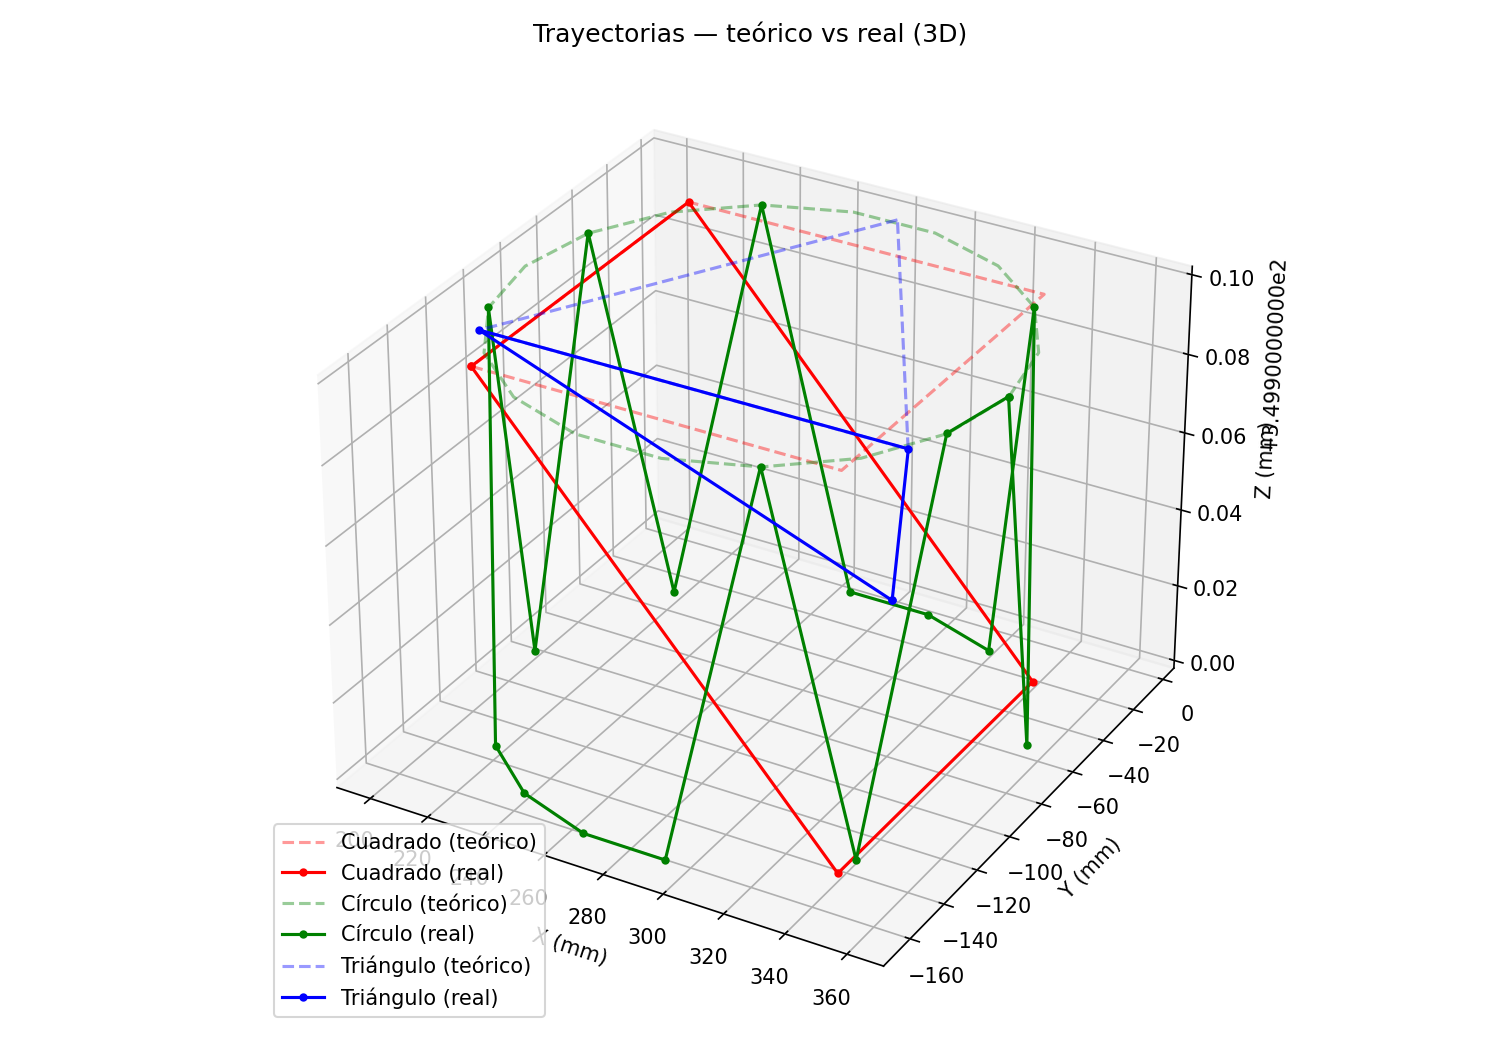
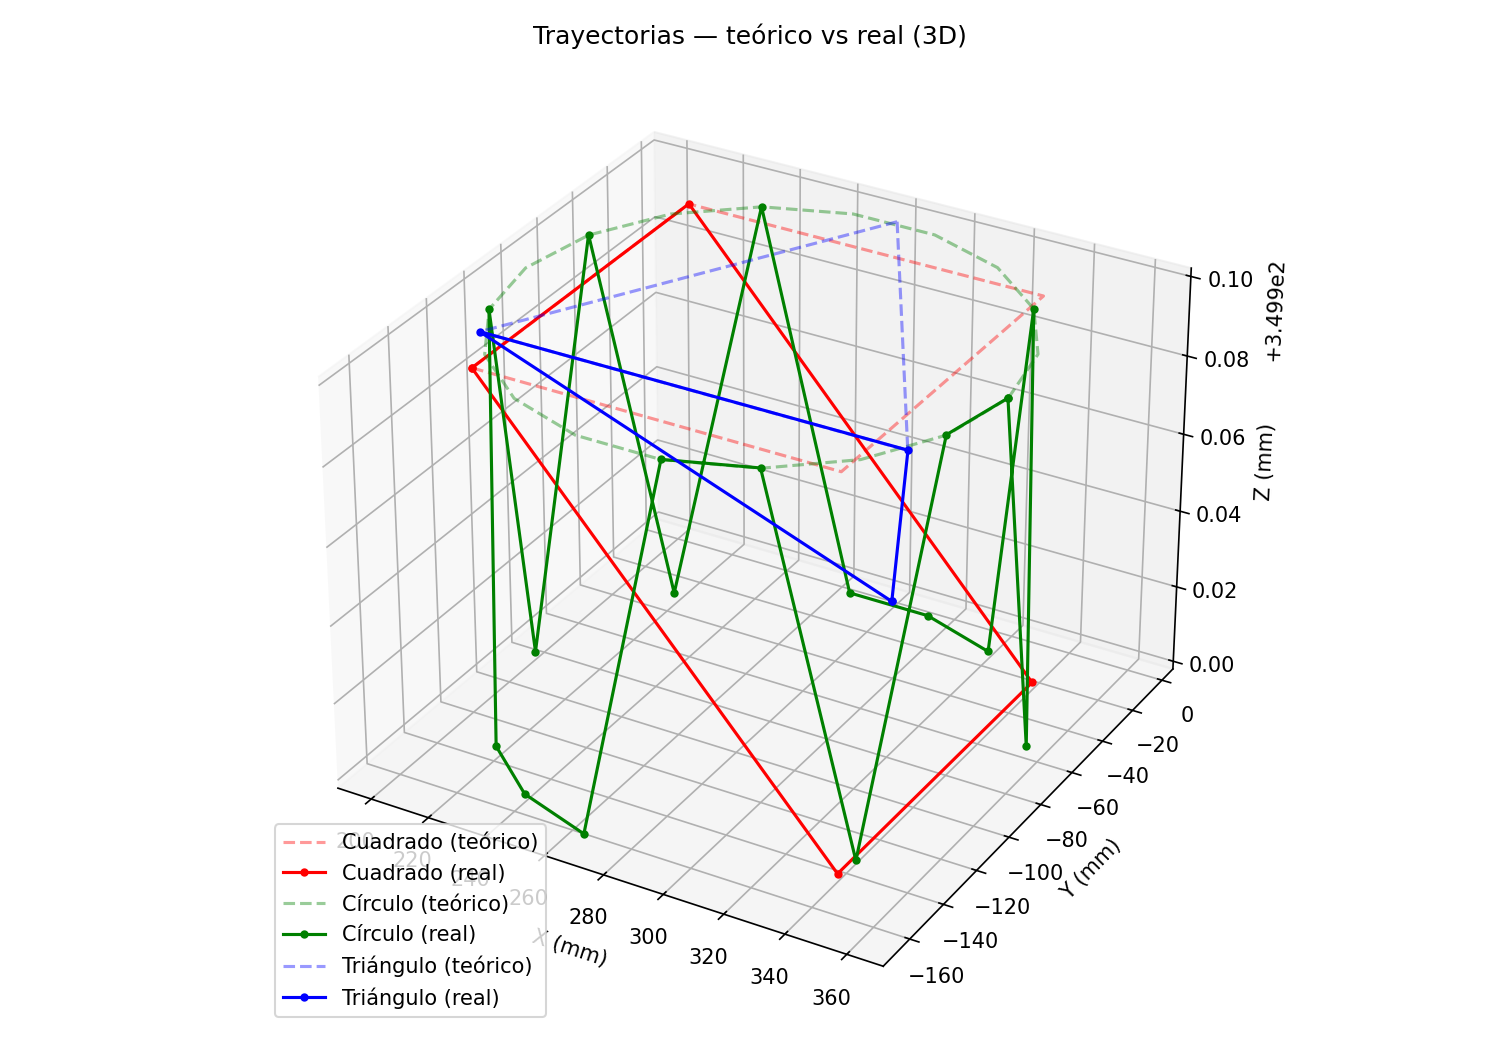
Testeando ejemplos myCobot Pro 450

diff --git a/README.md b/README.md
@@ -1,6 +1,6 @@
-# Brazo Robot Demos
+# myCobot Pro 450 Demos
 
-Scripts Python de demostración para el Brazo Robot myCobot Pro 450. Diseñados para ejecutarse directamente desde tu laptop conectada al robot del laboratorio remoto.
+Scripts Python de demostración para el brazo robot myCobot Pro 450. Diseñados para ejecutarse directamente desde tu laptop conectada al robot del laboratorio remoto.
 
 Todos los scripts están en:
 
@@ -10,9 +10,11 @@ python/
 
 Son archivos Python simples — ábrelos, léelos y modifícalos libremente. Cada uno es independiente y está pensado para que lo experimentes.
 
+<img src="img/my_cobot_pro_450.png" alt="myCobot Pro 450" width="400"/>
+
 ---
 
-## Prerrequisitos
+## Prerequisitos
 
 - Python 3.8 o superior instalado en tu laptop
 - Conectado al laboratorio remoto (Husarnet activo, acceso al robot)
@@ -46,8 +48,6 @@ python3 geometrias_3d.py
 
 ## Demos disponibles
 
----
-
 ### Movimiento y trayectorias
 
 ```bash
@@ -56,13 +56,15 @@ cd ~/brazo-robot-demos/python/1\ Movimiento\ y\ trayectorias
 
 ---
 
-### `geometrias_3d` — Traza cuadrado, círculo y triángulo en el espacio
+### `geometrias_3d` — Traza un cuadrado, un círculo y un triángulo en el espacio
 
-**Qué hace:** El robot recorre tres figuras geométricas en un plano cartesiano fijo: un cuadrado, un círculo (interpolado con N puntos) y un triángulo equilátero. Al terminar genera un gráfico matplotlib comparando la trayectoria teórica con la posición real registrada con `get_coords()`.
+Para este demo se recomienda que el área de trabajo esté despejada. Puedes ajustar las dimensiones de cada figura y el plano de trabajo con los parámetros al inicio del script.
 
 ```bash
 python3 geometrias_3d.py
 ```
+
+**Qué hace:** El robot recorre tres figuras geométricas en un plano cartesiano fijo: un cuadrado, un círculo (interpolado con N puntos) y un triángulo equilátero. Al terminar genera un gráfico matplotlib comparando la trayectoria teórica con la posición real registrada con `get_coords()`.
 
 **Qué usa:**
 - `send_coords(pose, speed)` — mueve el extremo a coordenadas cartesianas
@@ -77,11 +79,11 @@ python3 geometrias_3d.py
 
 ### `escritura_K` — Escribe la letra K con el extremo del brazo
 
-**Qué hace:** El robot traza la letra K en un plano cartesiano fijo simulando un bolígrafo: baja hasta la altura de dibujo, recorre cada trazo, y levanta el extremo entre trazos. Al finalizar muestra un gráfico de la trayectoria teórica.
-
 ```bash
 python3 escritura_K.py
 ```
+
+**Qué hace:** El robot traza la letra K en un plano cartesiano fijo simulando un bolígrafo: baja hasta la altura de dibujo, recorre cada trazo y levanta el extremo entre trazos. Al finalizar muestra un gráfico de la trayectoria teórica.
 
 **Qué usa:**
 - `send_coords(pose, speed)` — mueve el extremo a lo largo de cada trazo
@@ -94,36 +96,13 @@ python3 escritura_K.py
 
 ---
 
-### `dibujo_svg` — Dibuja un SVG en el plano
-
-**Qué hace:** Carga un archivo SVG, extrae sus trazos, los escala y centra en el área de trabajo del robot, y los ejecuta como movimientos reales (pluma arriba/abajo según si el trazo es continuo o hay salto). Con `--preview` genera solo la imagen sin mover el robot.
-
-```bash
-python3 dibujo_svg.py --preview
-python3 dibujo_svg.py
-```
-
-> Este demo tiene pasos extra de verificación antes de mover el robot. Consulta [README_testeo.md](README_testeo.md) para el flujo completo.
-
-**Qué usa:**
-- `send_coords(pose, speed)` — mueve el extremo a cada punto del trazo
-- `set_fresh_mode(True/False)` — envío en ráfaga sin esperar entre puntos intermedios
-- `gripper_close()` / `gripper_open()` — baja y sube la pluma entre trazos
-- `go_home()` — regresa al finalizar
-
-**Parámetros** (al inicio del script): `ANCHO_DIBUJO`, `ALTO_DIBUJO` (área máxima en mm) · `ORIGEN_X`, `ORIGEN_Y`, `PLANO_Z`, `Z_LEVANTE` (plano de trabajo) · `RESOLUCION` (muestreo de trazos) · `SPEED`, `SPEED_DRAW`
-
-**Código:** [python/1 Movimiento y trayectorias/dibujo_svg.py](python/1%20Movimiento%20y%20trayectorias/dibujo_svg.py)
-
----
-
 ### `reach_envelope` — Genera la nube de puntos del workspace real
-
-**Qué hace:** Barre sistemáticamente los rangos de J1 y J2 con J3–J6 fijos, registra la posición cartesiana real en cada pose con `get_coords()`, exporta los datos a un CSV y genera un gráfico 3D del espacio de trabajo alcanzable.
 
 ```bash
 python3 reach_envelope.py
 ```
+
+**Qué hace:** Barre sistemáticamente los rangos de J1 y J2 con J3–J6 fijos, registra la posición cartesiana real en cada pose con `get_coords()`, exporta los datos a un CSV y genera un gráfico 3D del espacio de trabajo alcanzable.
 
 **Qué usa:**
 - `send_angles(angles, speed)` — mueve el brazo a cada combinación de ángulos
@@ -148,11 +127,11 @@ cd ~/brazo-robot-demos/python/2\ Pick\ \&\ Place
 
 ### `pick_place_basico` — Recoge un objeto de A y lo deposita en B
 
-**Qué hace:** Secuencia básica de pick & place: se aproxima a la posición A, agarra el objeto verificando el estado del gripper, lo transporta a B y lo deposita. Si el gripper no reporta objeto agarrado, reintenta hasta `MAX_REINTENTOS` veces antes de abortar.
-
 ```bash
 python3 pick_place_basico.py
 ```
+
+**Qué hace:** Secuencia básica de pick & place: se aproxima a la posición A, agarra el objeto verificando el estado del gripper, lo transporta a B y lo deposita. Si el gripper no reporta objeto agarrado, reintenta hasta `MAX_REINTENTOS` veces antes de abortar.
 
 **Qué usa:**
 - `send_angles(pose, speed)` — mueve a las poses definidas por ángulos articulares
@@ -168,11 +147,11 @@ python3 pick_place_basico.py
 
 ### `apilado` — Apila y desapila bloques por capas
 
-**Qué hace:** Demostración de apilado en tres fases: (1) toma los bloques de la posición A capa por capa y los apila en B, (2) pausa en home, (3) deshace la pila de B y reconstruye A. Cada capa tiene su propia pose de pick y place con el Z correspondiente.
-
 ```bash
 python3 apilado.py
 ```
+
+**Qué hace:** Demostración de apilado en tres fases: (1) toma los bloques de la posición A capa por capa y los apila en B, (2) pausa en home, (3) deshace la pila de B y reconstruye A. Cada capa tiene su propia pose de pick y place con el Z correspondiente.
 
 **Qué usa:**
 - `send_angles(pose, speed)` — navega a cada pose de aproximación, pick y place
@@ -187,11 +166,11 @@ python3 apilado.py
 
 ### `distribucion_1_a_N` — Distribuye piezas a N destinos en abanico
 
-**Qué hace:** Simula una línea de producción: recoge del mismo punto de origen y distribuye en secuencia a N zonas de destino dispuestas en abanico (solo varía J1 entre destinos, J2–J6 son comunes). Repite el ciclo `N_CICLOS` veces.
-
 ```bash
 python3 distribucion_1_a_N.py
 ```
+
+**Qué hace:** Simula una línea de producción: recoge del mismo punto de origen y distribuye en secuencia a N zonas de destino dispuestas en abanico (solo varía J1 entre destinos, J2–J6 son comunes). Repite el ciclo `N_CICLOS` veces.
 
 **Qué usa:**
 - `send_angles(pose, speed)` — mueve a origen y a cada destino del abanico
@@ -212,50 +191,13 @@ cd ~/brazo-robot-demos/python/3\ Programación\ y\ control
 
 ---
 
-### `waypoints_json` — Ejecuta una secuencia de poses desde un archivo JSON
-
-**Qué hace:** Lector genérico de secuencias: carga un JSON con lista de poses (angulares o cartesianas), cada una con su etiqueta, velocidad y tipo de movimiento, y las ejecuta en orden con una pausa configurable entre cada una. Útil para prototipar rutas sin tocar código.
-
-**Con el archivo por defecto:**
-
-```bash
-python3 waypoints_json.py
-```
-
-**Con un archivo propio:**
-
-```bash
-python3 waypoints_json.py mi_secuencia.json
-```
-
-**Formato del JSON:**
-
-```json
-[
-  {"flag": 0, "pose": [J1, J2, J3, J4, J5, J6], "speed": 10, "label": "home"},
-  {"flag": 1, "pose": [X, Y, Z, RX, RY, RZ],    "speed": 20, "label": "punto_1"}
-]
-```
-
-> `flag: 0` usa `send_angles`, `flag: 1` usa `send_coords`.
-
-**Qué usa:**
-- `send_angles(pose, speed)` — para poses con `flag: 0`
-- `send_coords(pose, speed)` — para poses con `flag: 1`
-
-**Parámetros** (al inicio del script): `ARCHIVO_DEFAULT` (JSON por defecto) · `PAUSA_ENTRE_POSES` (segundos de espera entre poses)
-
-**Código:** [python/3 Programación y control/waypoints_json.py](python/3%20Programaci%C3%B3n%20y%20control/waypoints_json.py)
-
----
-
 ### `pid_posicion` — Control proporcional de posición en J1
-
-**Qué hace:** Lazo de control P sobre la articulación J1: lee el ángulo actual, calcula el error respecto al setpoint, envía un comando proporcional al error y repite hasta converger dentro de la tolerancia o agotar el timeout. Muestra en tiempo real el estado del lazo en una tabla por terminal.
 
 ```bash
 python3 pid_posicion.py
 ```
+
+**Qué hace:** Lazo de control P sobre la articulación J1: lee el ángulo actual, calcula el error respecto al setpoint, envía un comando proporcional al error y repite hasta converger dentro de la tolerancia o agotar el timeout. Muestra en tiempo real el estado del lazo en una tabla por terminal.
 
 **Qué usa:**
 - `get_angle(1)` — lee el ángulo actual de J1
@@ -278,11 +220,11 @@ cd ~/brazo-robot-demos/python/4\ Aplicaciones\ temáticas
 
 ### `barman` — Secuencia coreográfica de agarre y servido
 
-**Qué hace:** El robot actúa como bartender: recoge un vaso, lo transporta a la posición de servido, inclina el extremo el ángulo configurado para simular el vertido, devuelve el vaso a su lugar y regresa a reposo. Es una demo de secuenciación coreográfica con verificación de agarre.
-
 ```bash
 python3 barman.py
 ```
+
+**Qué hace:** El robot actúa como bartender: recoge un vaso, lo transporta a la posición de servido, inclina el extremo el ángulo configurado para simular el vertido, devuelve el vaso a su lugar y regresa a reposo. Es una demo de secuenciación coreográfica con verificación de agarre.
 
 **Qué usa:**
 - `send_angles(pose, speed)` — navega a cada pose de la secuencia
@@ -296,39 +238,17 @@ python3 barman.py
 
 ---
 
-### `contador_objetos` — Recoge y cuenta objetos de una bandeja
-
-**Qué hace:** El robot recoge objetos de una bandeja uno a uno, verifica con el gripper si hay objeto agarrado (estado `2`), los deposita en la zona de descarga y lleva un conteo acumulado que muestra cada `INTERVALO_DISPLAY` segundos. Se detiene al alcanzar `N_MAX_OBJETOS` o cuando la bandeja lleva `MAX_INTENTOS_VACIADA` intentos fallidos consecutivos.
-
-```bash
-python3 contador_objetos.py
-```
-
-> Este demo requiere objetos físicos en la bandeja. Consulta [README_testeo.md](README_testeo.md) para el flujo completo.
-
-**Qué usa:**
-- `send_angles(pose, speed)` — mueve a bandeja y zona de descarga
-- `gripper_close()` / `gripper_open()` — intento de agarre
-- `get_gripper_status()` — confirma objeto agarrado (estado `2`) o bandeja vacía
-- `go_home()` — regresa al finalizar
-
-**Parámetros** (al inicio del script): `POSE_BANDEJA_APPROACH`, `POSE_BANDEJA` · `POSE_DESCARGA_APPROACH`, `POSES_DESCARGA` · `N_MAX_OBJETOS` (límite de objetos) · `MAX_INTENTOS_VACIADA` (intentos fallidos antes de detener) · `INTERVALO_DISPLAY` · `SPEED`, `SPEED_PICK`, `ESPERA_GRIPPER`
-
-**Código:** [python/4 Aplicaciones temáticas/contador_objetos.py](python/4%20Aplicaciones%20tem%C3%A1ticas/contador_objetos.py)
-
----
-
 ## Resumen de métodos API usados
 
 | Método | Descripción | Usado por |
 |---|---|---|
-| `send_coords(pose, speed)` | Mueve el extremo a coordenadas cartesianas `[X, Y, Z, RX, RY, RZ]` | geometrias_3d, escritura_K, dibujo_svg, waypoints_json |
-| `send_angles(angles, speed)` | Mueve el brazo a ángulos articulares `[J1..J6]` | reach_envelope, pick_place_basico, apilado, distribucion_1_a_N, waypoints_json, barman, contador_objetos |
+| `send_coords(pose, speed)` | Mueve el extremo a coordenadas cartesianas `[X, Y, Z, RX, RY, RZ]` | geometrias_3d, escritura_K, dibujo_svg |
+| `send_angles(angles, speed)` | Mueve el brazo a ángulos articulares `[J1..J6]` | reach_envelope, pick_place_basico, apilado, distribucion_1_a_N, barman |
 | `send_angle(joint, angle, speed)` | Mueve una articulación individual | pid_posicion |
 | `get_coords()` | Lee la posición cartesiana actual del extremo | geometrias_3d, reach_envelope |
 | `get_angle(joint)` | Lee el ángulo actual de una articulación | pid_posicion |
-| `get_gripper_status()` | Lee el estado del gripper (`2` = sosteniendo objeto) | pick_place_basico, barman, contador_objetos |
-| `gripper_close()` / `gripper_open()` | Cierra o abre el gripper | pick_place_basico, apilado, distribucion_1_a_N, barman, contador_objetos, escritura_K, dibujo_svg |
+| `get_gripper_status()` | Lee el estado del gripper (`2` = sosteniendo objeto) | pick_place_basico, barman |
+| `gripper_close()` / `gripper_open()` | Cierra o abre el gripper | pick_place_basico, apilado, distribucion_1_a_N, barman, escritura_K, dibujo_svg |
 | `set_fresh_mode(bool)` | Envío en ráfaga sin esperar entre puntos | dibujo_svg |
 | `set_color(r, g, b)` | Cambia el color del LED de estado | todos |
 | `go_home()` | Regresa a la posición de reposo | todos |

diff --git a/README_test.md b/README_test.md
@@ -1,0 +1,89 @@
+## Ejemplos que estan por testear
+
+### `waypoints_json` — Ejecuta una secuencia de poses desde un archivo JSON
+
+**Qué hace:** Lector genérico de secuencias: carga un JSON con lista de poses (angulares o cartesianas), cada una con su etiqueta, velocidad y tipo de movimiento, y las ejecuta en orden con una pausa configurable entre cada una. Útil para prototipar rutas sin tocar código.
+
+**Con el archivo por defecto:**
+
+```bash
+python3 waypoints_json.py
+```
+
+**Con un archivo propio:**
+
+```bash
+python3 waypoints_json.py mi_secuencia.json
+```
+
+**Formato del JSON:**
+
+```json
+[
+  {"flag": 0, "pose": [J1, J2, J3, J4, J5, J6], "speed": 10, "label": "home"},
+  {"flag": 1, "pose": [X, Y, Z, RX, RY, RZ],    "speed": 20, "label": "punto_1"}
+]
+```
+
+> `flag: 0` usa `send_angles`, `flag: 1` usa `send_coords`.
+
+**Qué usa:**
+- `send_angles(pose, speed)` — para poses con `flag: 0`
+- `send_coords(pose, speed)` — para poses con `flag: 1`
+
+**Parámetros** (al inicio del script): `ARCHIVO_DEFAULT` (JSON por defecto) · `PAUSA_ENTRE_POSES` (segundos de espera entre poses)
+
+**Código:** [python/3 Programación y control/waypoints_json.py](python/3%20Programaci%C3%B3n%20y%20control/waypoints_json.py)
+
+---
+
+### `contador_objetos` — Recoge y cuenta objetos de una bandeja
+
+**Qué hace:** El robot recoge objetos de una bandeja uno a uno, verifica con el gripper si hay objeto agarrado (estado `2`), los deposita en la zona de descarga y lleva un conteo acumulado que muestra cada `INTERVALO_DISPLAY` segundos. Se detiene al alcanzar `N_MAX_OBJETOS` o cuando la bandeja lleva `MAX_INTENTOS_VACIADA` intentos fallidos consecutivos.
+
+```bash
+python3 contador_objetos.py
+```
+
+> Este demo requiere objetos físicos en la bandeja. Consulta [README_testeo.md](README_testeo.md) para el flujo completo.
+
+**Qué usa:**
+- `send_angles(pose, speed)` — mueve a bandeja y zona de descarga
+- `gripper_close()` / `gripper_open()` — intento de agarre
+- `get_gripper_status()` — confirma objeto agarrado (estado `2`) o bandeja vacía
+- `go_home()` — regresa al finalizar
+
+**Parámetros** (al inicio del script): `POSE_BANDEJA_APPROACH`, `POSE_BANDEJA` · `POSE_DESCARGA_APPROACH`, `POSES_DESCARGA` · `N_MAX_OBJETOS` (límite de objetos) · `MAX_INTENTOS_VACIADA` (intentos fallidos antes de detener) · `INTERVALO_DISPLAY` · `SPEED`, `SPEED_PICK`, `ESPERA_GRIPPER`
+
+**Código:** [python/4 Aplicaciones temáticas/contador_objetos.py](python/4%20Aplicaciones%20tem%C3%A1ticas/contador_objetos.py)
+---
+
+### `dibujo_svg` — Dibuja un archivo SVG en el plano
+
+Este demo tiene pasos adicionales de verificación antes de mover el robot. Se recomienda ejecutar primero con `--preview` para confirmar la escala y la posición del dibujo antes de lanzar los movimientos reales.
+
+**Vista previa (sin mover el robot):**
+
+```bash
+python3 dibujo_svg.py --preview
+```
+
+**Ejecución completa:**
+
+```bash
+python3 dibujo_svg.py
+```
+
+**Qué hace:** Carga un archivo SVG, extrae sus trazos, los escala y centra en el área de trabajo del robot, y los ejecuta como movimientos reales (pluma arriba o abajo según si el trazo es continuo o hay un salto). Con `--preview` genera solo la imagen sin mover el robot.
+
+**Qué usa:**
+- `send_coords(pose, speed)` — mueve el extremo a cada punto del trazo
+- `set_fresh_mode(True/False)` — envío en ráfaga sin esperar entre puntos intermedios
+- `gripper_close()` / `gripper_open()` — baja y sube la pluma entre trazos
+- `go_home()` — regresa al finalizar
+
+**Parámetros** (al inicio del script): `ANCHO_DIBUJO`, `ALTO_DIBUJO` (área máxima en mm) · `ORIGEN_X`, `ORIGEN_Y`, `PLANO_Z`, `Z_LEVANTE` (plano de trabajo) · `RESOLUCION` (muestreo de trazos) · `SPEED`, `SPEED_DRAW`
+
+**Código:** [python/1 Movimiento y trayectorias/dibujo_svg.py](python/1%20Movimiento%20y%20trayectorias/dibujo_svg.py)
+
+---